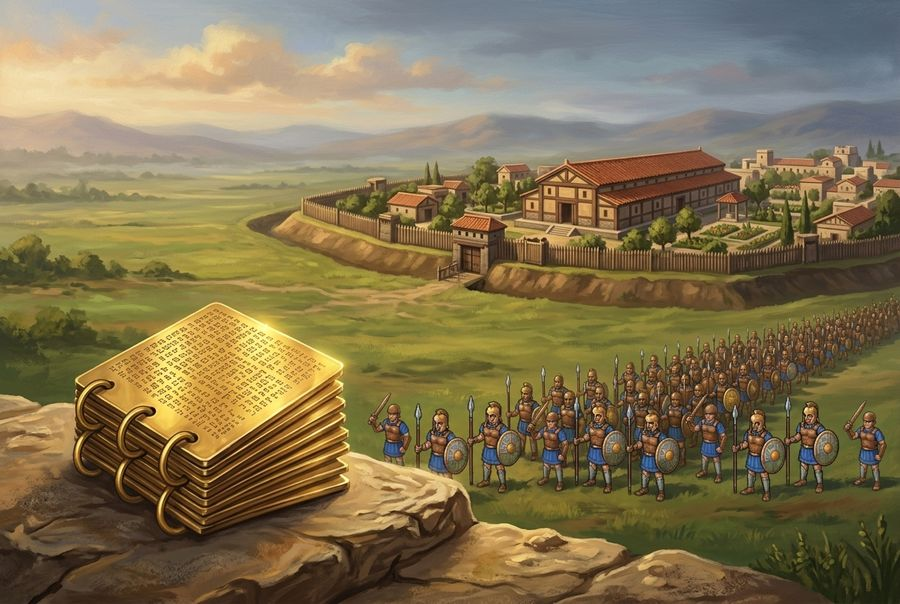
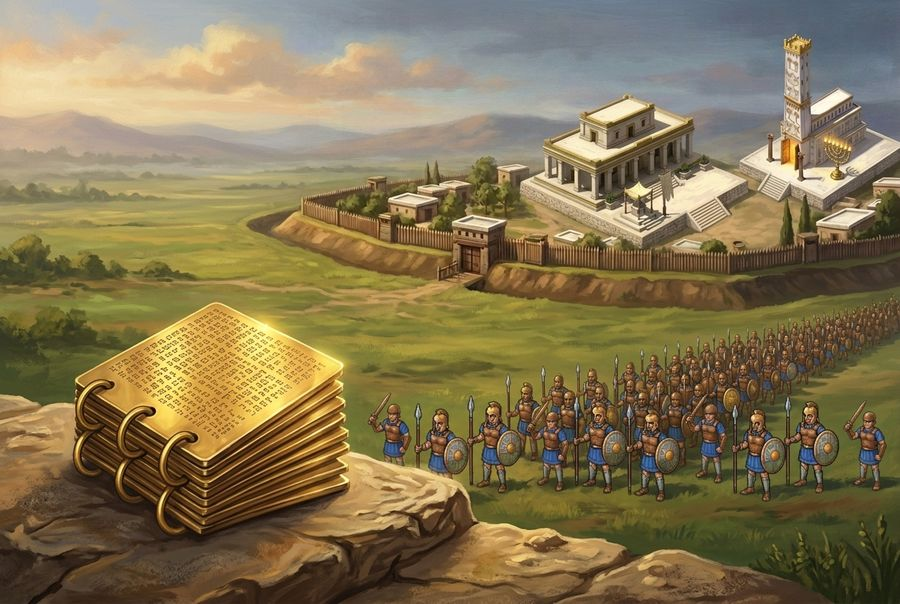
Title of Liberty: the new palace and gold temple in the opening paintings
The opening painting, the Story tile and the Free tile still showed the old
red-roofed hall (and, in the opening painting, the old plain white tower for
the temple). Each was touched up, not repainted: the game's own palace and
temple were pasted over the old buildings and Gemini painted them in, in two
passes. Only the city is taken from Gemini's picture; everything else is the
painting as it was, pixel for pixel. Red tile roofs are white plaster or
thatch now, like the rest of the Nephite buildings. On a phone the opening
painting's crop sits a little further right, so the temple's tower shows.

Claude-Session: https://claude.ai/code/session_01Q4ES8mgC6R6KD4i9kHrmBw

Changed region(s): [[0.4356, 0.0596, 1.0, 0.4172]]

diff --git a/liberty/index.html b/liberty/index.html
@@ -227,7 +227,7 @@
   .hero img { display: block; width: 100%; aspect-ratio: 16 / 9; object-fit: cover; object-position: 50% 40%; }
   .hero::after, .modeHead::after { content: ''; position: absolute; inset: 0; pointer-events: none;
     background: linear-gradient(to bottom, rgba(10, 10, 20, 0) 50%, rgba(10, 10, 20, .55) 75%, var(--ink) 100%); }
-  @media (max-width: 600px) { .hero img { aspect-ratio: 5 / 4; object-position: 44% 30%; } }
+  @media (max-width: 600px) { .hero img { aspect-ratio: 5 / 4; object-position: 58% 30%; } }   /* Moroni near the middle, the temple's tower in view */
   @media (min-width: 601px) { .hero img { max-height: 58vh; object-position: 50% 30%; } }
   @media (min-width: 1201px) { .hero img, .modeHead img { -webkit-mask-image: linear-gradient(to right, transparent, #000 8%, #000 92%, transparent); mask-image: linear-gradient(to right, transparent, #000 8%, #000 92%, transparent); } }
   .wrap.home { margin-top: -64px; padding-top: 0; position: relative; z-index: 1; }
@@ -461,6 +461,6 @@
 <script src="missions.js?v=29"></script>
 <script src="save.js?v=2"></script>
 <script src="scripture.js?v=15"></script>
-<script src="ui.js?v=52"></script>
+<script src="ui.js?v=53"></script>
 </body>
 </html>

diff --git a/liberty/ui.js b/liberty/ui.js
@@ -2699,7 +2699,7 @@ IMG.farm.src = 'assets/farm.png?v=13';
   // ------------------------------------------------------------ the opening page
   // Blake: "The opening page.. can you add some art!? And better layout the game options cleaner." A painting of Moroni raising
   // the title of liberty (art/requests/019), then three big tiles, each opening a screen with only its own choices.
-  const ART = { title: 'assets/title.jpg?v=1', story: 'assets/tile_story.jpg?v=1', free: 'assets/tile_free.jpg?v=1', wild: 'assets/tile_wild.jpg?v=1' };
+  const ART = { title: 'assets/title.jpg?v=2', story: 'assets/tile_story.jpg?v=2', free: 'assets/tile_free.jpg?v=2', wild: 'assets/tile_wild.jpg?v=1' };
   const menuFor = m => m === WILD ? wildScreen : m && m.free ? freeScreen : storyScreen;
   const councilNote = () => Object.keys(save.read).some(c => QUESTIONS[c]) ? '' : '<p class="lock suggest">Read a mission\'s chapter to open the council: its right answers bring grain, timber and treasures.</p>';
   const segHtml = (keys, on, attr, label) => `<div class="seg">${keys.map(k => `<button class="btn ${k === on ? 'go' : ''}" ${attr}="${k}">${label(k)}</button>`).join('')}</div>`;

diff --git a/liberty/art/requests/022-paintings-new-city.md b/liberty/art/requests/022-paintings-new-city.md
@@ -1,0 +1,42 @@
+# 022 · The opening paintings: the new palace and the gold temple in the city
+
+**Status: done.** Made with Gemini through Blake's n8n backup (executions
+13480–13485, six billed to the Merit3D Gemini account). Each painting was
+touched up, not repainted: the game's own `stronghold.png` and `temple.png`
+were pasted over the old buildings, Gemini painted them in, and only the
+city was taken from its picture. Everything else is the painting of request
+019, pixel for pixel (Gemini had changed 0.01–0.15% of each picture outside
+the city, and those changes were dropped). Two passes each: the first
+painted the buildings in but left them looking like game pieces on thick
+white slabs (and, in the Story tile, added two more lampstands and a smoking
+altar); the second set them on low stone terraces on the ground, in the
+painting's light. In the Free tile the second pass also hazed the hills
+beside the spearman's helmet, so its version is faded out over those hills
+to leave no seam. The pastes and drafts (`liberty/art/incoming/pr96/`) were
+removed once done. Saved as JPEG (quality 80): the title 1376 × 768, the
+tiles 900 × 604.
+
+## What it's for
+
+After the city became a white stone palace (request 020) and the temple
+stone and gold (request 021), the opening page still showed the old
+buildings: a long red-roofed hall in the opening painting, the Story tile
+and the Free tile, and a plain white tower for the temple in the opening
+painting. Decided with Blake, one question at a time: all three paintings,
+and touch up the city only.
+
+## The changes
+
+- **`title.jpg`**: in the walled city behind Moroni, the palace stands where
+  the hall was and the temple, its porch tower crowned in gold and its doors
+  glowing, where the white tower was. The red tile roofs of the houses are
+  thatch or white plaster now, like the rest.
+- **`tile_story.jpg`**: inside the palisade, the palace stands where the long
+  hall was, and the temple rises behind it on the right, with its one great
+  lampstand. The red roofs, the gatehouse's too, are white plaster.
+- **`tile_free.jpg`**: in the small town in the distance, behind the
+  spearman's spear, a small palace and the temple, in the evening light.
+- **On a phone** the opening painting is cropped to 5:4, and the temple's tower
+  fell just off its right edge. The crop now sits a little further right
+  (`index.html`, `object-position` 44% → 58%), so the tower and its glowing
+  door show and Moroni stays near the middle.

diff --git a/liberty/art/requests/019-title-screen.md b/liberty/art/requests/019-title-screen.md
@@ -25,17 +25,17 @@ All painted, warm light, in the manner of a classic strategy game's box art
 or loading screen; no lettering anywhere (the page sets its own titles);
 nothing gory.
 
-- **`title.jpg`** (16:9, 156 KB): Moroni "rent his coat" and wrote on it, fastened
+- **`title.jpg`** (16:9, 156 KB; its city touched up in request 022 with the new palace and gold temple): Moroni "rent his coat" and wrote on it, fastened
   it "upon the end of a pole", put on "his head-plate, and his breastplate,
   and his shields", and called it "the title of liberty" (Alma 46:12–13). He
   stands on a rise and lifts it high, the cloth with lines of writing too
   small to read; soldiers gather below him; Zarahemla's judge's hall and the
   white temple stand behind, in the light of morning. Moroni as the game
   draws him: bronze armor, a red crest and a red cloak.
-- **`tile_story.jpg`** (3:2, 98 KB): plates of gold lie open on a stone in front,
+- **`tile_story.jpg`** (3:2, 98 KB; its town touched up in request 022): plates of gold lie open on a stone in front,
   and beyond them a Nephite army marches toward Zarahemla: the missions are
   the chapters.
-- **`tile_free.jpg`** (3:2, 75 KB): a Nephite spearman with his round shield and a
+- **`tile_free.jpg`** (3:2, 75 KB; its town touched up in request 022): a Nephite spearman with his round shield and a
   Lamanite warrior with his club face each other across open ground,
   Zarahemla on one side behind, the Lamanite war camp's palisade on the
   other.
